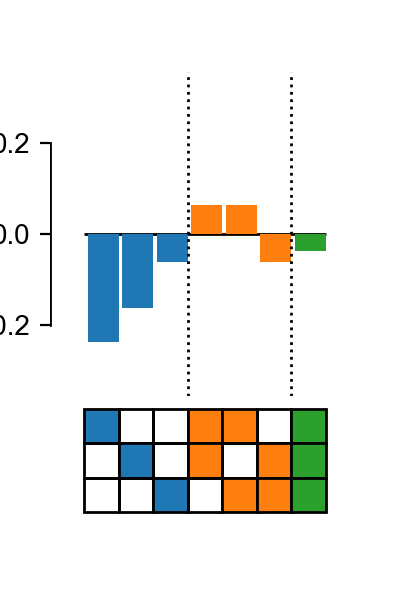
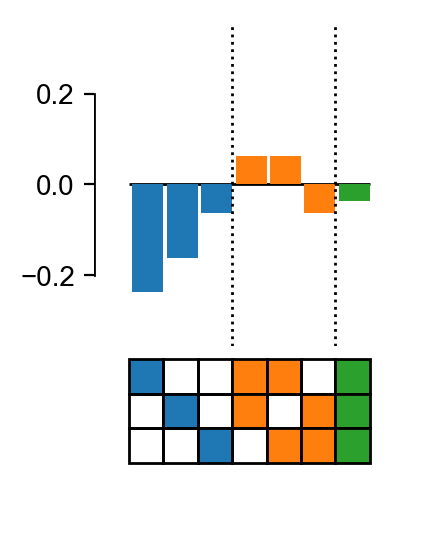
update image

Changed region(s): [[0.0, 0.0591, 0.87, 0.8577], [0.0, 0.3549, 0.09, 0.414], [0.0, 0.207, 0.09, 0.2662]]

diff --git a/README.md b/README.md
@@ -49,7 +49,7 @@ model.fit()
 plot_coefs(model, figsize=(3,5))
 ```
 
-<img src="docs/img/coef_example.png">
+<img src="docs/img/coef_example.png" width="200">
 
 More examples can be found in these [binder notebooks](https://mybinder.org/v2/gh/harmslab/epistasis-notebooks/master).
 
